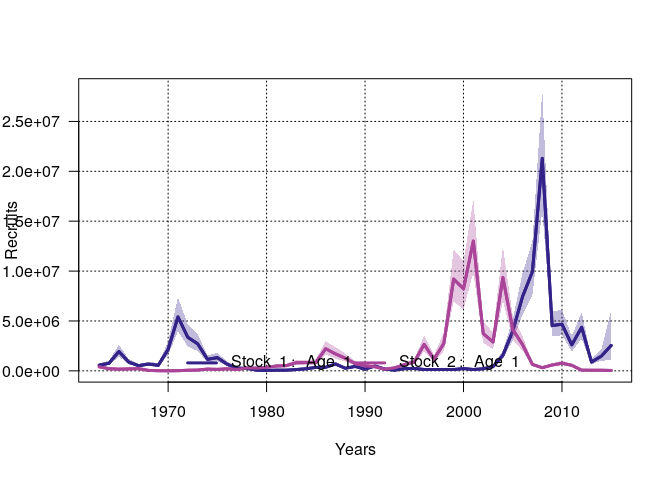
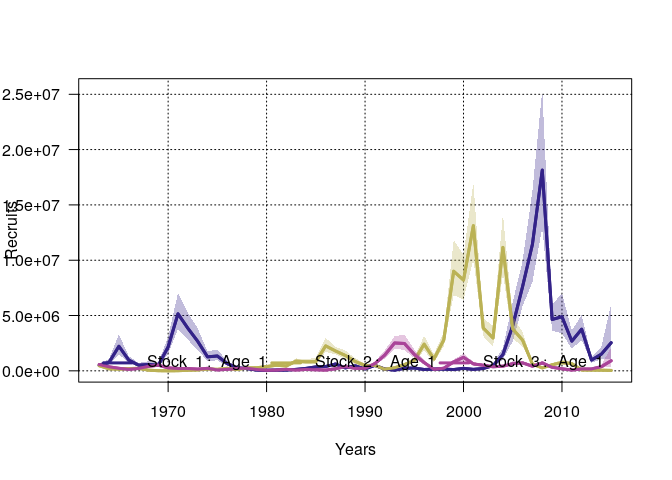
Ready for changes in SAM related to tagging data

diff --git a/multiStockassessment/src/multiStockassessment.cpp b/multiStockassessment/src/multiStockassessment.cpp
@@ -123,9 +123,11 @@ Type objective_function<Type>::operator() ()
   PARAMETER_CMOE_VECTOR(logScale);
   PARAMETER_CMOE_VECTOR(logitReleaseSurvival);
   PARAMETER_CMOE_VECTOR(logitRecapturePhi);
+  PARAMETER_CMOE_VECTOR(logRecaptureSd);
 
   PARAMETER_CMOE_MATRIX(logF); 
   PARAMETER_CMOE_MATRIX(logN);
+  PARAMETER_CMOE_VECTOR(logRecapEps);
   PARAMETER_CMOE_VECTOR(missing);
 
   ////////////////////////////////////////
@@ -134,11 +136,10 @@ Type objective_function<Type>::operator() ()
   PARAMETER_VECTOR(RE);
 
   Type ans = 0; //negative log-likelihood
-
-    
+  
   int nStocks = logF.cols();
   vector<paraSet<Type> > paraSets(nStocks);
-
+  
   for(int s = 0; s < nStocks; ++s){
     paraSets(s).logFpar = logFpar.col(s);  
     paraSets(s).logQpow = logQpow.col(s);  
@@ -153,7 +154,8 @@ Type objective_function<Type>::operator() ()
     paraSets(s).itrans_rho = itrans_rho.col(s);  
     paraSets(s).logScale = logScale.col(s);
     paraSets(s).logitReleaseSurvival = logitReleaseSurvival.col(s);
-    paraSets(s).logitRecapturePhi = logitRecapturePhi.col(s);    
+    paraSets(s).logitRecapturePhi = logitRecapturePhi.col(s);
+    paraSets(s).logRecaptureSd = logRecaptureSd.col(s);
   }
 
   // patch missing 
@@ -170,9 +172,15 @@ Type objective_function<Type>::operator() ()
     Type huge = 10.0;
     for (int i = 0; i < missing.size(); i++)
       ans -= dnorm(missing(i), Type(0.0), huge, true);  
-} 
+  } 
   
 
+  // Contribution from recapture random effects
+  for(int s = 0; s < nStocks; ++s)
+    for(int i=0; i<logRecapEps.col(s).size(); ++i){
+      ans += -dnorm(logRecapEps.col(s)(i),Type(0),exp(paraSets(s).logRecaptureSd(0)),true);
+    }
+  
   ofall<Type> ofAll(nStocks);
   ////////////////////////////////
   ////////// F PROCESS //////////
@@ -404,7 +412,8 @@ Type objective_function<Type>::operator() ()
     dataSet<Type> ds = sam.dataSets(s);
     confSet cs = sam.confSets(s);
     paraSet<Type> ps = paraSets(s);
-    ans += nllObs(ds, cs, ps, logNa, logFa, keepTmp,  &of);
+    vector<Type> recap = logRecapEps.col(s);
+    ans += nllObs(ds, cs, ps, logNa, logFa, recap, keepTmp,  &of);
     ofAll.addToReport(of.report,s);
     moveADREPORT(&of,this,s);
   }

diff --git a/README.md b/README.md
@@ -35,7 +35,7 @@ data(nscodParameters)
 set.seed(9876)
 fit <- sam.fit(nscodData, nscodConf, nscodParameters,sim.condRE = FALSE)
 
-datSim <- simulate(fit,nsim=2)
+datSim <- simulate(fit,nsim=3)
 fitSim <- do.call("c",lapply(datSim,function(x)sam.fit(x,nscodConf, nscodParameters)))
 ```
 
@@ -60,36 +60,48 @@ For instance, `suggestCorStructure(fitSim,nAgeClose=1)` creates a matrix
 where ages less than 1 appart are correlated between the stocks:
 
 ``` r
-cs <- suggestCorStructure(fitSim,nAgeClose=1)
+cs <- suggestCorStructure(fitSim,nAgeClose=2)
 cs
 ```
 
     ##        [,1]  [,2]  [,3]  [,4]  [,5]  [,6]  [,7]  [,8]  [,9] [,10] [,11]
-    ##  [1,]  TRUE  TRUE  TRUE  TRUE  TRUE  TRUE FALSE  TRUE  TRUE  TRUE  TRUE
-    ##  [2,]  TRUE  TRUE  TRUE  TRUE  TRUE  TRUE  TRUE FALSE  TRUE  TRUE  TRUE
-    ##  [3,]  TRUE  TRUE  TRUE  TRUE  TRUE  TRUE  TRUE  TRUE FALSE  TRUE  TRUE
-    ##  [4,]  TRUE  TRUE  TRUE  TRUE  TRUE  TRUE  TRUE  TRUE  TRUE FALSE  TRUE
-    ##  [5,]  TRUE  TRUE  TRUE  TRUE  TRUE  TRUE  TRUE  TRUE  TRUE  TRUE FALSE
-    ##  [6,]  TRUE  TRUE  TRUE  TRUE  TRUE  TRUE  TRUE  TRUE  TRUE  TRUE  TRUE
-    ##  [7,] FALSE  TRUE  TRUE  TRUE  TRUE  TRUE  TRUE  TRUE  TRUE  TRUE  TRUE
-    ##  [8,]  TRUE FALSE  TRUE  TRUE  TRUE  TRUE  TRUE  TRUE  TRUE  TRUE  TRUE
-    ##  [9,]  TRUE  TRUE FALSE  TRUE  TRUE  TRUE  TRUE  TRUE  TRUE  TRUE  TRUE
-    ## [10,]  TRUE  TRUE  TRUE FALSE  TRUE  TRUE  TRUE  TRUE  TRUE  TRUE  TRUE
-    ## [11,]  TRUE  TRUE  TRUE  TRUE FALSE  TRUE  TRUE  TRUE  TRUE  TRUE  TRUE
-    ## [12,]  TRUE  TRUE  TRUE  TRUE  TRUE FALSE  TRUE  TRUE  TRUE  TRUE  TRUE
-    ##       [,12]
-    ##  [1,]  TRUE
-    ##  [2,]  TRUE
-    ##  [3,]  TRUE
-    ##  [4,]  TRUE
-    ##  [5,]  TRUE
-    ##  [6,] FALSE
-    ##  [7,]  TRUE
-    ##  [8,]  TRUE
-    ##  [9,]  TRUE
-    ## [10,]  TRUE
-    ## [11,]  TRUE
-    ## [12,]  TRUE
+    ##  [1,]  TRUE  TRUE  TRUE  TRUE  TRUE  TRUE FALSE FALSE  TRUE  TRUE  TRUE
+    ##  [2,]  TRUE  TRUE  TRUE  TRUE  TRUE  TRUE FALSE FALSE FALSE  TRUE  TRUE
+    ##  [3,]  TRUE  TRUE  TRUE  TRUE  TRUE  TRUE  TRUE FALSE FALSE FALSE  TRUE
+    ##  [4,]  TRUE  TRUE  TRUE  TRUE  TRUE  TRUE  TRUE  TRUE FALSE FALSE FALSE
+    ##  [5,]  TRUE  TRUE  TRUE  TRUE  TRUE  TRUE  TRUE  TRUE  TRUE FALSE FALSE
+    ##  [6,]  TRUE  TRUE  TRUE  TRUE  TRUE  TRUE  TRUE  TRUE  TRUE  TRUE FALSE
+    ##  [7,] FALSE FALSE  TRUE  TRUE  TRUE  TRUE  TRUE  TRUE  TRUE  TRUE  TRUE
+    ##  [8,] FALSE FALSE FALSE  TRUE  TRUE  TRUE  TRUE  TRUE  TRUE  TRUE  TRUE
+    ##  [9,]  TRUE FALSE FALSE FALSE  TRUE  TRUE  TRUE  TRUE  TRUE  TRUE  TRUE
+    ## [10,]  TRUE  TRUE FALSE FALSE FALSE  TRUE  TRUE  TRUE  TRUE  TRUE  TRUE
+    ## [11,]  TRUE  TRUE  TRUE FALSE FALSE FALSE  TRUE  TRUE  TRUE  TRUE  TRUE
+    ## [12,]  TRUE  TRUE  TRUE  TRUE FALSE FALSE  TRUE  TRUE  TRUE  TRUE  TRUE
+    ## [13,] FALSE FALSE  TRUE  TRUE  TRUE  TRUE FALSE FALSE  TRUE  TRUE  TRUE
+    ## [14,] FALSE FALSE FALSE  TRUE  TRUE  TRUE FALSE FALSE FALSE  TRUE  TRUE
+    ## [15,]  TRUE FALSE FALSE FALSE  TRUE  TRUE  TRUE FALSE FALSE FALSE  TRUE
+    ## [16,]  TRUE  TRUE FALSE FALSE FALSE  TRUE  TRUE  TRUE FALSE FALSE FALSE
+    ## [17,]  TRUE  TRUE  TRUE FALSE FALSE FALSE  TRUE  TRUE  TRUE FALSE FALSE
+    ## [18,]  TRUE  TRUE  TRUE  TRUE FALSE FALSE  TRUE  TRUE  TRUE  TRUE FALSE
+    ##       [,12] [,13] [,14] [,15] [,16] [,17] [,18]
+    ##  [1,]  TRUE FALSE FALSE  TRUE  TRUE  TRUE  TRUE
+    ##  [2,]  TRUE FALSE FALSE FALSE  TRUE  TRUE  TRUE
+    ##  [3,]  TRUE  TRUE FALSE FALSE FALSE  TRUE  TRUE
+    ##  [4,]  TRUE  TRUE  TRUE FALSE FALSE FALSE  TRUE
+    ##  [5,] FALSE  TRUE  TRUE  TRUE FALSE FALSE FALSE
+    ##  [6,] FALSE  TRUE  TRUE  TRUE  TRUE FALSE FALSE
+    ##  [7,]  TRUE FALSE FALSE  TRUE  TRUE  TRUE  TRUE
+    ##  [8,]  TRUE FALSE FALSE FALSE  TRUE  TRUE  TRUE
+    ##  [9,]  TRUE  TRUE FALSE FALSE FALSE  TRUE  TRUE
+    ## [10,]  TRUE  TRUE  TRUE FALSE FALSE FALSE  TRUE
+    ## [11,]  TRUE  TRUE  TRUE  TRUE FALSE FALSE FALSE
+    ## [12,]  TRUE  TRUE  TRUE  TRUE  TRUE FALSE FALSE
+    ## [13,]  TRUE  TRUE  TRUE  TRUE  TRUE  TRUE  TRUE
+    ## [14,]  TRUE  TRUE  TRUE  TRUE  TRUE  TRUE  TRUE
+    ## [15,]  TRUE  TRUE  TRUE  TRUE  TRUE  TRUE  TRUE
+    ## [16,]  TRUE  TRUE  TRUE  TRUE  TRUE  TRUE  TRUE
+    ## [17,] FALSE  TRUE  TRUE  TRUE  TRUE  TRUE  TRUE
+    ## [18,] FALSE  TRUE  TRUE  TRUE  TRUE  TRUE  TRUE
 
 The `suggestCorStructure` function has several options to configure the
 correlation structure, and the result can be modified by hand for
@@ -112,7 +124,7 @@ obj <- multisam.fit(fitSim,cs)
 obj
 ```
 
-    ## Multi-SAM model with 2 stocks: log likelihood is -253.2214. Convergence OK.
+    ## Multi-SAM model with 3 stocks: log likelihood is -346.6933. Convergence OK.
 
 ### Investigating the result
 
@@ -202,5 +214,5 @@ modeltable(obj,obj2)
 ```
 
     ##       log(L) #par      AIC Pval( M1 -> M2 )
-    ## M1 -253.2214   74 654.4428               NA
-    ## M2 -255.0715   68 646.1429        0.7171872
+    ## M1 -346.6933  150 993.3867               NA
+    ## M2 -376.2874  102 956.5747        0.1291461
